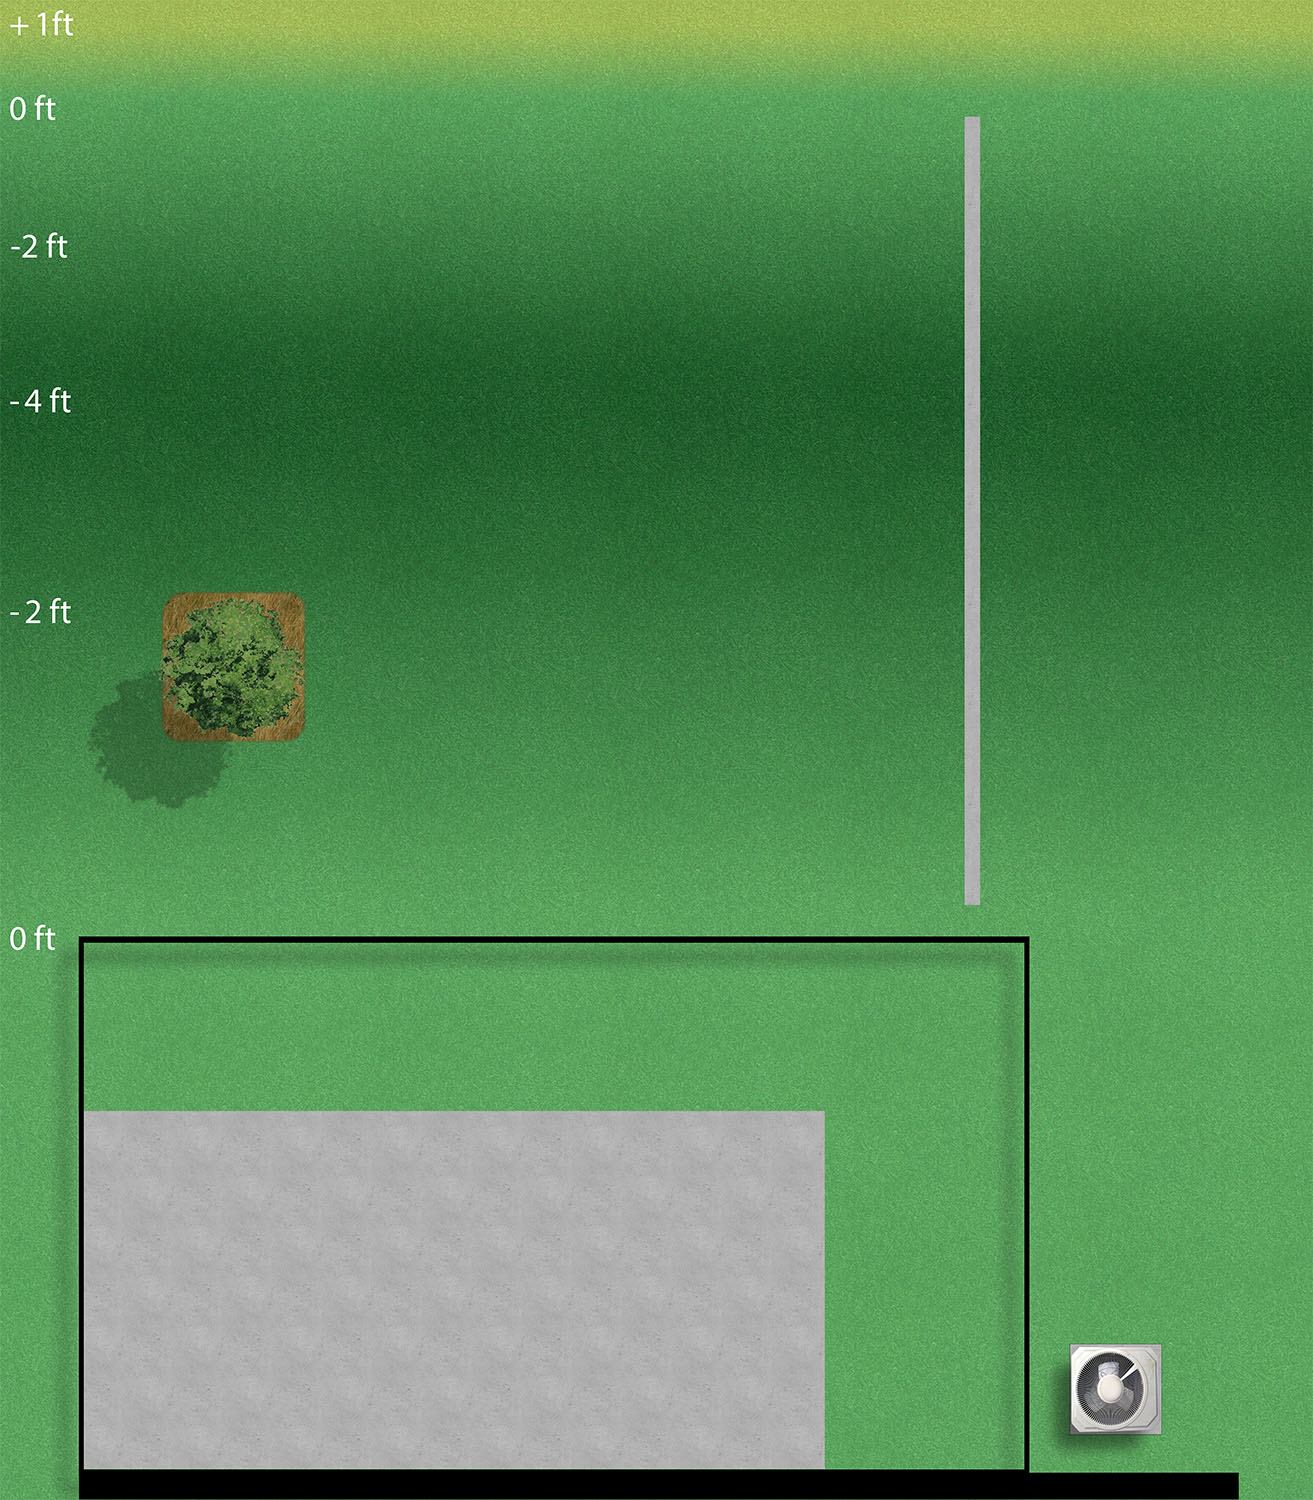
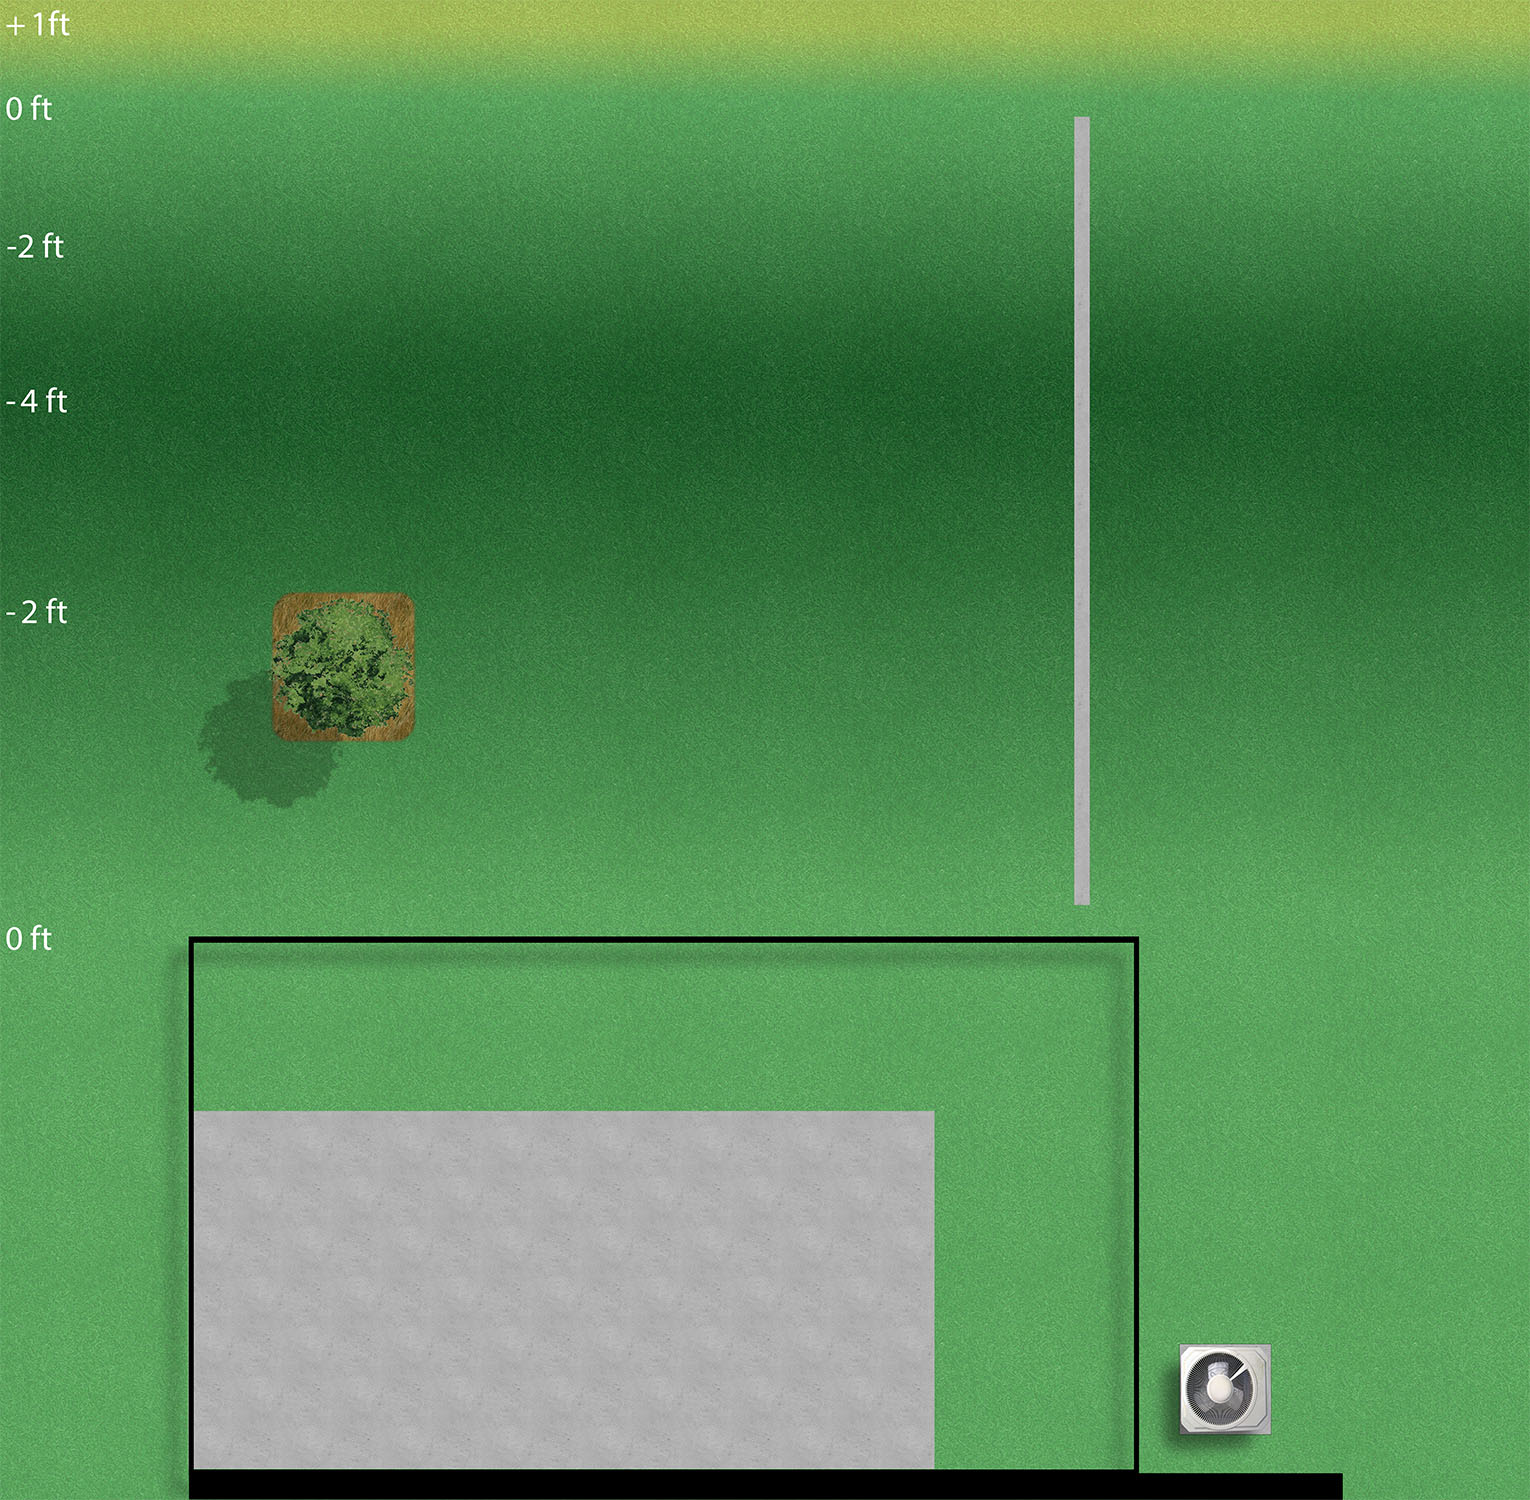
New layout map
Backyard width is now correct

diff --git a/ui/src/app/react/trackmap.tsx b/ui/src/app/react/trackmap.tsx
@@ -19,8 +19,8 @@ import RegularLayout from "./tracklayout/regular/layout";
 import styles from "./trackmap.module.css";
 
 // The size of the world box
-const worldWidth = 13130; // Milimeters
-const worldHeight = 15000; // Milimeters
+const worldWidth = 15545; // Milimeters
+const worldHeight = 15240; // Milimeters
 
 /**
  * The main track layout react component.

diff --git a/TODO.md b/TODO.md
@@ -3,6 +3,7 @@
 - Add ability to save and load layouts.
 - Work on connecting nodes that are not perfectly on top of each other
 - Make a place in the UI where it shows all the different pieces that we need and how many of each (add to end of layout api).
+- Ability to identify which pieces are what in the layout. Maybe make the UI where it shows which pieces are which selectable and then it shows in the layout which pieces are the ones of the selected type?
 - Should the node factory also contain all access to the layout DB? Instead of this being in a different file?
 - Add protection so you can't move the layout outside of the world size.
 - Work on indicating track pieces that are close together but are not connected.
